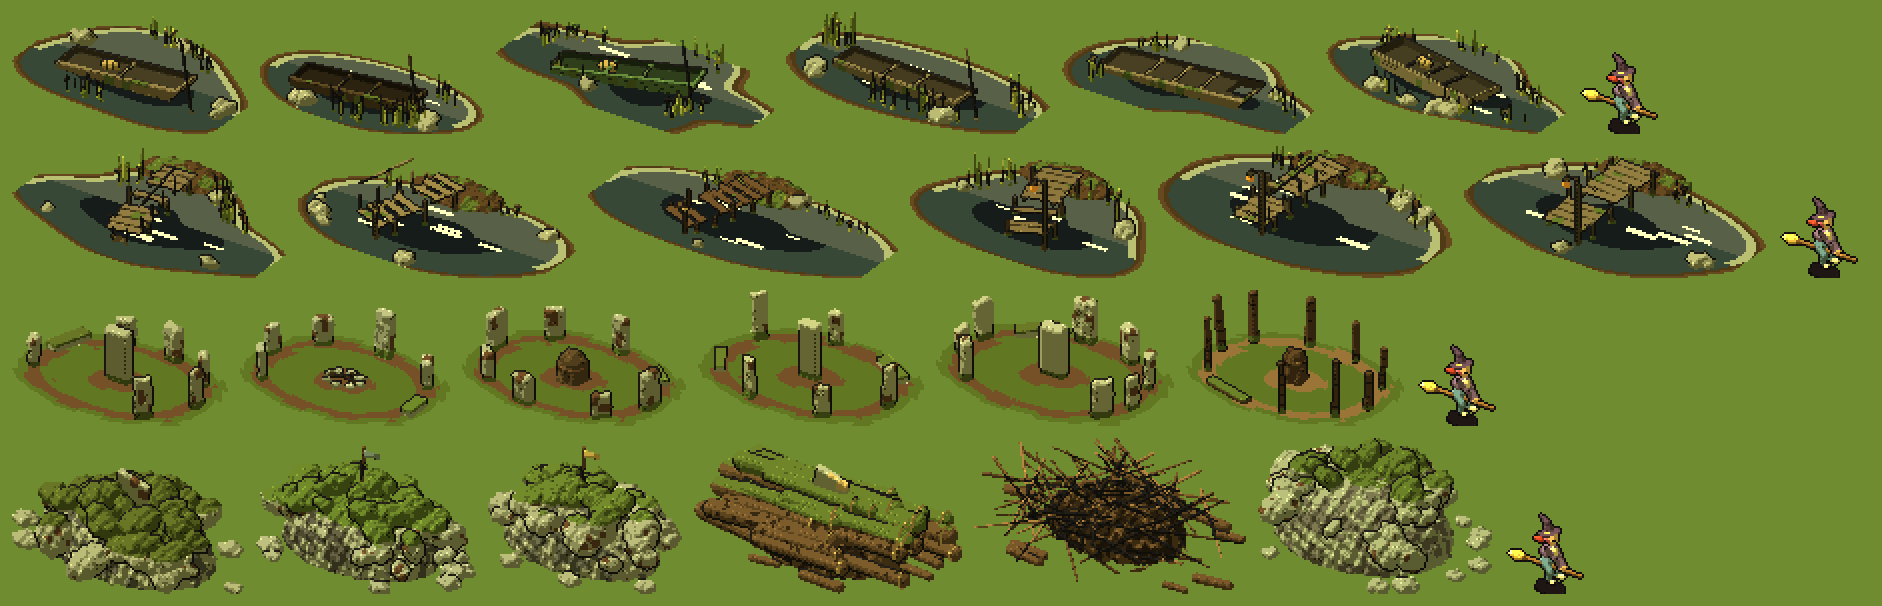
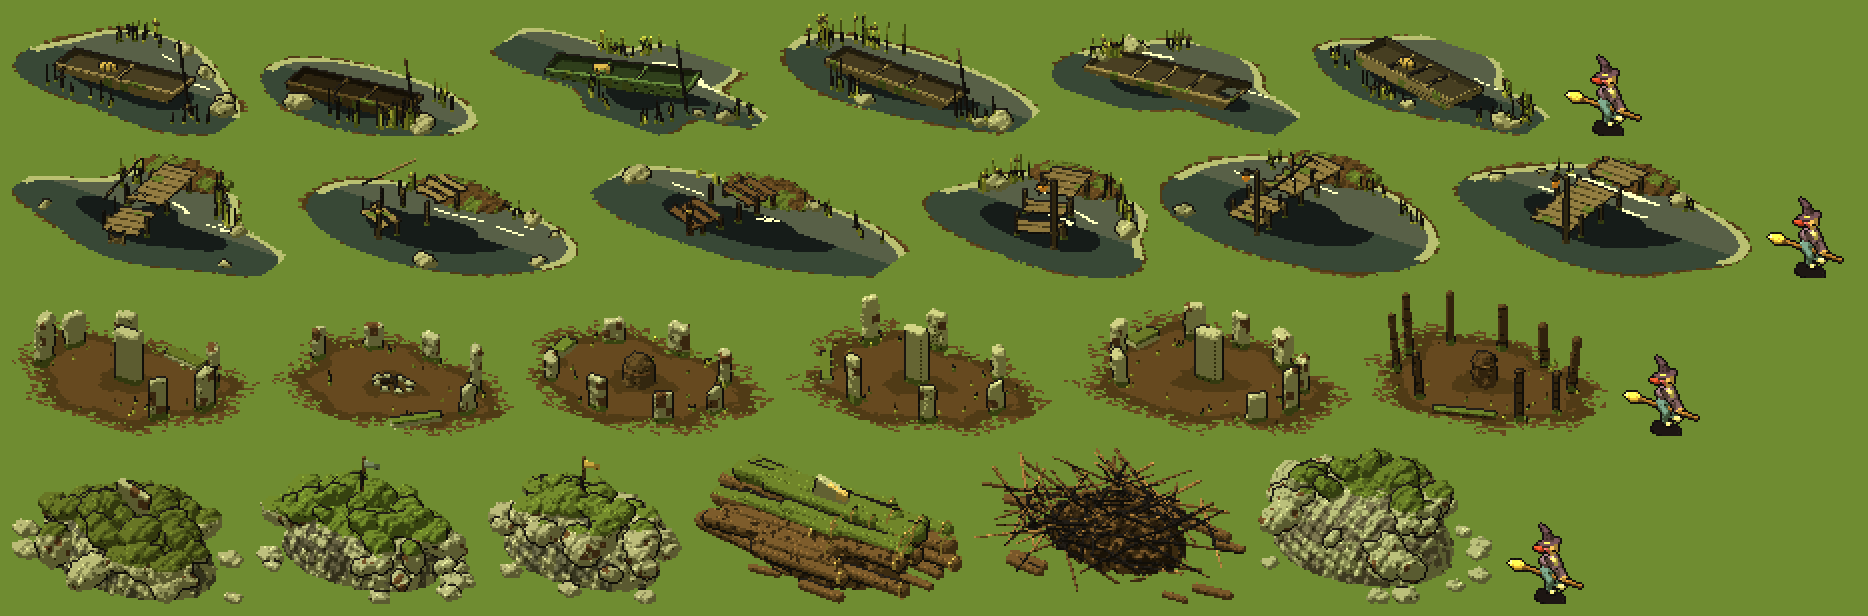
Set pieces: ground that melts into the floor (art director on #204)
The pools and the rings' ground were clean ellipses that read as rugs. Pools: the rim's width bites in and out round the shore, the pale outer band only on muddy stretches, the outermost rim pixels dropped in small clusters (as the props' pools), wobblier shores; their highlights are 2 to 6 strokes of their own lengths on the far water where the sky's reflection is. Rings: the lawn in the floor's own colour with a trodden path and bare middle in its darker tone, an uneven edge dithering out into the floor, tufts over it. Re-cropped after the fleck clean so none floats.

Claude-Session: https://claude.ai/code/session_01VVaLYY2sU2dqSozCTw7Z4G

Changed region(s): [[0.0, 0.0297, 0.9936, 0.7129], [0.0, 0.7129, 0.8694, 0.9802]]

diff --git a/tools/art-lab/dist/witch-art-lab.html b/tools/art-lab/dist/witch-art-lab.html
@@ -3311,13 +3311,13 @@ const SET_PROP_GENOMES = {
   punt: {
     length: [4.2, 6], beam: [1.1, 1.5], depth: [.35, .55], yaw: [-.45, .45], sink: [.15, .5], // m; its heading in the picture (radians); how far its stern is sunk (a share of its depth)
     state: [["whole", 2], ["broken", 1], ["swamped", 2]], thwarts: [1, 3], pole: [0, 1], cargo: [["none", 3], ["trap", 2], ["nets", 1]], // a broken stern; swamped: water inside; a pole stuck in the mud (a chance); an eel trap or nets in it
-    radius: [3.1, 3.8], aspect: [.5, .7], waves: [2, 4], wobble: [.06, .16], rim: [.2, .4], reeds: [3, 6], reedsPer: [5, 9], reedHeight: [.6, 1.2], stones: [1, 4], // its pool
+    radius: [3.1, 3.8], aspect: [.5, .7], waves: [2, 4], wobble: [.08, .2], rim: [.2, .4], reeds: [3, 6], reedsPer: [5, 9], reedHeight: [.6, 1.2], stones: [1, 4], // its pool
     colour: { wood: [[.08, .18, .45, 2], [.07, .35, .24, 1], [.36, .3, .38, 1]], spread: .05 }, // weathered grey, tarred, or old green paint
   },
   jetty: {
     length: [5.5, 8], width: [1.1, 1.5], deck: [.35, .6], sag: [0, .18], kink: [-.35, .35], heading: [-.5, .5], // m; the deck's height over the water and how much its far end droops; a bend halfway; its heading
     missing: [0, 3], posts: [3, 5], end: [["post", 2], ["ladder", 1], ["lantern", 2], ["boat", 1]], rail: [["none", 2], ["one", 1]],
-    radius: [3.4, 4.3], aspect: [.5, .65], waves: [2, 4], wobble: [.05, .14], rim: [.2, .35], reeds: [2, 5], reedsPer: [4, 8], reedHeight: [.5, 1.1], stones: [2, 5],
+    radius: [3.4, 4.3], aspect: [.5, .65], waves: [2, 4], wobble: [.07, .18], rim: [.2, .35], reeds: [2, 5], reedsPer: [4, 8], reedHeight: [.5, 1.1], stones: [2, 5],
     colour: { wood: [[.08, .22, .42, 2], [.07, .4, .3, 1]], spread: .05 },
   },
   ring: {
@@ -3357,13 +3357,16 @@ function gsPool(m, v, R, A, { reedsAt } = {}) {
   const r = v.r, rimW = v.rim * GS_U / R;
   const waves = [...Array(v.waves).keys()].map(k => [k + 2, (r() - .5) * 2 * v.wobble, r() * Math.PI * 2]);
   const shore = a => 1 + waves.reduce((s, [k, amp, ph]) => s + amp * Math.cos(k * a + ph), 0) - v.wobble * .4;
-  const glints = [...Array(4 + Math.floor(r() * 3)).keys()].map(() => [(r() - .5) * 1.2, (r() - .5) * .9, .04 + r() * .05]);
+  const ph = [...Array(4)].map(() => r() * Math.PI * 2);
+  const bite = a => .3 + .9 * (.5 + .3 * Math.sin(3 * a + ph[0]) + .2 * Math.sin(7 * a + ph[1])); // the rim's width round the shore: bites in and out (the art director on #204: no clean ellipse)
+  const muddy = a => Math.sin(2 * a + ph[2]) + .4 * Math.sin(5 * a + ph[3]) > .2; // the pale outer band only on the muddy stretches, not the whole loop
+  const glints = [...Array(2 + Math.floor(r() * 5)).keys()].map(() => [(r() - .5) * 1.1, .2 + r() * .55, .03 + r() * .03, 1 + r() * 2.5]); // on the far water, where the sky's reflection is: each its own length
   const W = 1 + v.wobble + rimW;
   m.flat([0, .004, 0], [1, 0, 0], [0, 0, -1], R * W, R * A * W, (s, t) => {
-    const a = Math.atan2(t, s), d = Math.hypot(s, t) / W, e = shore(a) / W;
-    if (d > e + rimW / W) return undefined;
-    if (d > e) return d > e + rimW / W * .5 ? M.BODY : M.BARK2;
-    if (glints.some(([gx, gy, gr]) => Math.abs(s - gx) < gr * 1.4 && Math.abs(t - gy) < gr * .5)) return M.GLINT;
+    const a = Math.atan2(t, s), d = Math.hypot(s, t) / W, e = shore(a) / W, rw = rimW / W * bite(a);
+    if (d > e + rw) return undefined;
+    if (d > e) return d > e + rw * .5 ? (muddy(a) ? M.BODY : undefined) : M.BARK2;
+    if (glints.some(([gx, gy, gr, len]) => Math.abs(s - gx) < gr * len && Math.abs(t - gy * e) < gr * .45)) return M.GLINT;
     if (t > -.1 && d > e - .06) return M.WEB;
     if (t > .12 && d < e * .93 && d > e * .3) return M.ACCENT;
     return d < e * .55 ? M.BODY2 : M.WATER;
@@ -3439,7 +3442,13 @@ function gsJetty(m, v) {
 // ---- ring: small stones, posts or stumps round a trodden ring of grass; a way in, a fallen one or two, something in the middle ----
 function gsRing(m, v) {
   const r = v.r, R = v.radius * GS_U, A = .7, H = v.height * GS_U, Wd = v.width * GS_U / 2;
-  m.flat([0, .003, 0], [1, 0, 0], [0, 0, -1], R * 1.2, R * A * 1.2, (s, t) => { const d = Math.hypot(s, t) + (gsCell([s, 0, t], 4, 4) - .5) * .12; return d < 1 ? (d > .72 && d < .9 || d < .28 ? M.BELLY : M.LEAF3) : undefined; }, { group: 1, bend: .04 }); // a trodden path round inside the ring and its middle worn bare, short grass between
+  const ph = [r() * 6.28, r() * 6.28], edgeAt = a => 1 + .1 * Math.sin(3 * a + ph[0]) + .07 * Math.sin(7 * a + ph[1]);
+  m.flat([0, .003, 0], [1, 0, 0], [0, 0, -1], R * 1.35, R * A * 1.35, (s, t) => { // a trodden path round inside the ring and its middle worn bare, the floor's own grass between, fading out into the floor in a broken, dithered edge (the art director on #204: no rug)
+    const a = Math.atan2(t, s), d = Math.hypot(s, t) / edgeAt(a) + (gsCell([s, 0, t], 5, 4) - .5) * .1;
+    if (d > .78 && gsCell([s, 0, t], 26, 9) < (d - .78) / .32) return undefined;
+    return d > .72 && d < .88 || d < .26 ? M.BARK2 : M.LEAF3;
+  }, { group: 1, bend: .04 });
+  for (let i = 0; i < 26; i++) { const a = r() * 6.28, d = R * (.6 + r() * .55), x = Math.cos(a) * d, z = Math.sin(a) * d * A; m.seg([x, 0, z], [x + (r() - .5) * .05, .06 + r() * .08, z], .022, .006, i % 2 ? M.LEAF : M.LEAF2, { group: 70 + (i % 4) }); } // tufts over its fading edge
   const gapAt = Math.PI * .5 + (r() - .5) * .8, gapW = v.gap > .45 ? Math.PI * 2 / v.count * 1.1 : 0, fallen = new Set([...Array(v.fallen).keys()].map(() => Math.floor(r() * v.count)));
   for (let i = 0; i < v.count; i++) {
     const a = i / v.count * Math.PI * 2 + r() * .15, da = Math.atan2(Math.sin(a - gapAt), Math.cos(a - gapAt));
@@ -3490,7 +3499,7 @@ function gsColours(kind, v, def, st) {
   const wood = gsTone(C.wood ?? [.07, .38, .32], r, k), dark = wood.map(c => Math.round(c * .45)), light = wood.map(c => Math.min(255, Math.round(c * 1.35 + 12)));
   const stone = gsTone(C.stone ?? [.6, .08, .55], r, k), stoneD = C.dark ? gsTone(C.dark, r, k) : stone.map(c => Math.round(c * .55));
   return {
-    [M.LEAF]: hsv2rgb(leaf, .5, .45), [M.LEAF2]: hsv2rgb(leaf - .03, .45, .62), [M.LEAF3]: hsv2rgb(leaf + .02, .5, .34), [M.LINE]: [24, 22, 30],
+    [M.LEAF]: hsv2rgb(leaf, .5, .45), [M.LEAF2]: hsv2rgb(leaf - .03, .45, .62), [M.LEAF3]: g && kind === "ring" ? g[M.BODY] : hsv2rgb(leaf + .02, .5, .34), [M.LINE]: [24, 22, 30],
     [M.WOOD]: wood, [M.TRUNK]: kind === "punt" || kind === "jetty" ? dark.map(c => Math.round(c * 1.5)) : wood, [M.BARKD]: dark, [M.BARKL]: light,
     [M.STONE]: stone, [M.STONED]: stoneD, [M.MOSS]: C.moss ? gsTone(C.moss, r, k) : g ? g[M.MOSS] : hsv2rgb(.25, .45, .38),
     [M.BELLY]: kind === "ring" && v.member !== "stone" ? light : kind === "heap" && v.of === "logs" ? hsv2rgb(.1, .3, .7) : g ? g[M.BELLY] : hsv2rgb(.2, .1, .72), // trodden earth, lichen, or a sawn face
@@ -3515,8 +3524,15 @@ function genSetPiece(kind, o = {}, def = null, st = {}, size = 1, ppm = 16) {
   m.clipY = 0; // a sunk punt's keel, a buried stone: cut away under the ground
   GS_BUILD[kind](m, v);
   m.ell([0, .004, 0], [.01, .004, .01], M.STONE, { group: 0, extra: true });
-  const rr = render(m, { scale: witchPixelsPerUnit(st) * size }), { sp, x0, y0 } = gsCrop(rr.sp);
-  cleanFlecks(sp);
+  const rr = render(m, { scale: witchPixelsPerUnit(st) * size });
+  let { sp, x0, y0 } = gsCrop(rr.sp);
+  if (kind === "punt" || kind === "jetty") { // the shore breaks into the floor: its outermost rim pixels dropped in 2 x 1 clusters by hash (as the props' pools, #142)
+    const rim = new Set([M.BODY, M.BARK2]), at = (x, y) => x < 0 || y < 0 || x >= sp.w || y >= sp.h ? 0 : sp.m[y * sp.w + x], drop = [];
+    for (let y = 0; y < sp.h; y++) for (let x = 0; x < sp.w; x++) { if (!rim.has(at(x, y)) || (at(x - 1, y) && at(x + 1, y) && at(x, y - 1) && at(x, y + 1))) continue; if (hash2(x >> 1, y, v.seed + 77) < .5) drop.push(y * sp.w + x, y * sp.w + (x ^ 1)); }
+    for (const i of drop) if (rim.has(sp.m[i])) sp.m[i] = 0;
+    const c = gsCrop(sp); sp = c.sp; x0 += c.x0; y0 += c.y0;
+  }
+  cleanFlecks(sp); { const c = gsCrop(sp); sp = c.sp; x0 += c.x0; y0 += c.y0; } // (a lone pixel cleaned off its bottom row would leave it floating)
   if (kind === "punt" || kind === "jetty") { const wn = [.2, 0, .98], l = Math.hypot(...wn); for (let i = 0; i < sp.m.length; i++) if (GS_WATER.has(sp.m[i])) sp.n.set(wn.map(c => c / l), i * 3); } // its water lit as a level surface at a grazing light (as the props' pool), never black
   const [ox, oy] = rr.project([0, 0, 0]), { r, ...variant } = v;
   return { sp, colours: gsColours(kind, v, def, st), origin: { x: +(ox - x0).toFixed(1), y: +(oy - y0).toFixed(1) }, metres: { width: +(sp.w / ppm).toFixed(1), height: +(sp.h / ppm).toFixed(1) }, variant };

diff --git a/art/props/sets.js b/art/props/sets.js
@@ -20,13 +20,13 @@ export const SET_PROP_GENOMES = {
   punt: {
     length: [4.2, 6], beam: [1.1, 1.5], depth: [.35, .55], yaw: [-.45, .45], sink: [.15, .5], // m; its heading in the picture (radians); how far its stern is sunk (a share of its depth)
     state: [["whole", 2], ["broken", 1], ["swamped", 2]], thwarts: [1, 3], pole: [0, 1], cargo: [["none", 3], ["trap", 2], ["nets", 1]], // a broken stern; swamped: water inside; a pole stuck in the mud (a chance); an eel trap or nets in it
-    radius: [3.1, 3.8], aspect: [.5, .7], waves: [2, 4], wobble: [.06, .16], rim: [.2, .4], reeds: [3, 6], reedsPer: [5, 9], reedHeight: [.6, 1.2], stones: [1, 4], // its pool
+    radius: [3.1, 3.8], aspect: [.5, .7], waves: [2, 4], wobble: [.08, .2], rim: [.2, .4], reeds: [3, 6], reedsPer: [5, 9], reedHeight: [.6, 1.2], stones: [1, 4], // its pool
     colour: { wood: [[.08, .18, .45, 2], [.07, .35, .24, 1], [.36, .3, .38, 1]], spread: .05 }, // weathered grey, tarred, or old green paint
   },
   jetty: {
     length: [5.5, 8], width: [1.1, 1.5], deck: [.35, .6], sag: [0, .18], kink: [-.35, .35], heading: [-.5, .5], // m; the deck's height over the water and how much its far end droops; a bend halfway; its heading
     missing: [0, 3], posts: [3, 5], end: [["post", 2], ["ladder", 1], ["lantern", 2], ["boat", 1]], rail: [["none", 2], ["one", 1]],
-    radius: [3.4, 4.3], aspect: [.5, .65], waves: [2, 4], wobble: [.05, .14], rim: [.2, .35], reeds: [2, 5], reedsPer: [4, 8], reedHeight: [.5, 1.1], stones: [2, 5],
+    radius: [3.4, 4.3], aspect: [.5, .65], waves: [2, 4], wobble: [.07, .18], rim: [.2, .35], reeds: [2, 5], reedsPer: [4, 8], reedHeight: [.5, 1.1], stones: [2, 5],
     colour: { wood: [[.08, .22, .42, 2], [.07, .4, .3, 1]], spread: .05 },
   },
   ring: {
@@ -66,13 +66,16 @@ function gsPool(m, v, R, A, { reedsAt } = {}) {
   const r = v.r, rimW = v.rim * GS_U / R;
   const waves = [...Array(v.waves).keys()].map(k => [k + 2, (r() - .5) * 2 * v.wobble, r() * Math.PI * 2]);
   const shore = a => 1 + waves.reduce((s, [k, amp, ph]) => s + amp * Math.cos(k * a + ph), 0) - v.wobble * .4;
-  const glints = [...Array(4 + Math.floor(r() * 3)).keys()].map(() => [(r() - .5) * 1.2, (r() - .5) * .9, .04 + r() * .05]);
+  const ph = [...Array(4)].map(() => r() * Math.PI * 2);
+  const bite = a => .3 + .9 * (.5 + .3 * Math.sin(3 * a + ph[0]) + .2 * Math.sin(7 * a + ph[1])); // the rim's width round the shore: bites in and out (the art director on #204: no clean ellipse)
+  const muddy = a => Math.sin(2 * a + ph[2]) + .4 * Math.sin(5 * a + ph[3]) > .2; // the pale outer band only on the muddy stretches, not the whole loop
+  const glints = [...Array(2 + Math.floor(r() * 5)).keys()].map(() => [(r() - .5) * 1.1, .2 + r() * .55, .03 + r() * .03, 1 + r() * 2.5]); // on the far water, where the sky's reflection is: each its own length
   const W = 1 + v.wobble + rimW;
   m.flat([0, .004, 0], [1, 0, 0], [0, 0, -1], R * W, R * A * W, (s, t) => {
-    const a = Math.atan2(t, s), d = Math.hypot(s, t) / W, e = shore(a) / W;
-    if (d > e + rimW / W) return undefined;
-    if (d > e) return d > e + rimW / W * .5 ? M.BODY : M.BARK2;
-    if (glints.some(([gx, gy, gr]) => Math.abs(s - gx) < gr * 1.4 && Math.abs(t - gy) < gr * .5)) return M.GLINT;
+    const a = Math.atan2(t, s), d = Math.hypot(s, t) / W, e = shore(a) / W, rw = rimW / W * bite(a);
+    if (d > e + rw) return undefined;
+    if (d > e) return d > e + rw * .5 ? (muddy(a) ? M.BODY : undefined) : M.BARK2;
+    if (glints.some(([gx, gy, gr, len]) => Math.abs(s - gx) < gr * len && Math.abs(t - gy * e) < gr * .45)) return M.GLINT;
     if (t > -.1 && d > e - .06) return M.WEB;
     if (t > .12 && d < e * .93 && d > e * .3) return M.ACCENT;
     return d < e * .55 ? M.BODY2 : M.WATER;
@@ -148,7 +151,13 @@ function gsJetty(m, v) {
 // ---- ring: small stones, posts or stumps round a trodden ring of grass; a way in, a fallen one or two, something in the middle ----
 function gsRing(m, v) {
   const r = v.r, R = v.radius * GS_U, A = .7, H = v.height * GS_U, Wd = v.width * GS_U / 2;
-  m.flat([0, .003, 0], [1, 0, 0], [0, 0, -1], R * 1.2, R * A * 1.2, (s, t) => { const d = Math.hypot(s, t) + (gsCell([s, 0, t], 4, 4) - .5) * .12; return d < 1 ? (d > .72 && d < .9 || d < .28 ? M.BELLY : M.LEAF3) : undefined; }, { group: 1, bend: .04 }); // a trodden path round inside the ring and its middle worn bare, short grass between
+  const ph = [r() * 6.28, r() * 6.28], edgeAt = a => 1 + .1 * Math.sin(3 * a + ph[0]) + .07 * Math.sin(7 * a + ph[1]);
+  m.flat([0, .003, 0], [1, 0, 0], [0, 0, -1], R * 1.35, R * A * 1.35, (s, t) => { // a trodden path round inside the ring and its middle worn bare, the floor's own grass between, fading out into the floor in a broken, dithered edge (the art director on #204: no rug)
+    const a = Math.atan2(t, s), d = Math.hypot(s, t) / edgeAt(a) + (gsCell([s, 0, t], 5, 4) - .5) * .1;
+    if (d > .78 && gsCell([s, 0, t], 26, 9) < (d - .78) / .32) return undefined;
+    return d > .72 && d < .88 || d < .26 ? M.BARK2 : M.LEAF3;
+  }, { group: 1, bend: .04 });
+  for (let i = 0; i < 26; i++) { const a = r() * 6.28, d = R * (.6 + r() * .55), x = Math.cos(a) * d, z = Math.sin(a) * d * A; m.seg([x, 0, z], [x + (r() - .5) * .05, .06 + r() * .08, z], .022, .006, i % 2 ? M.LEAF : M.LEAF2, { group: 70 + (i % 4) }); } // tufts over its fading edge
   const gapAt = Math.PI * .5 + (r() - .5) * .8, gapW = v.gap > .45 ? Math.PI * 2 / v.count * 1.1 : 0, fallen = new Set([...Array(v.fallen).keys()].map(() => Math.floor(r() * v.count)));
   for (let i = 0; i < v.count; i++) {
     const a = i / v.count * Math.PI * 2 + r() * .15, da = Math.atan2(Math.sin(a - gapAt), Math.cos(a - gapAt));
@@ -199,7 +208,7 @@ function gsColours(kind, v, def, st) {
   const wood = gsTone(C.wood ?? [.07, .38, .32], r, k), dark = wood.map(c => Math.round(c * .45)), light = wood.map(c => Math.min(255, Math.round(c * 1.35 + 12)));
   const stone = gsTone(C.stone ?? [.6, .08, .55], r, k), stoneD = C.dark ? gsTone(C.dark, r, k) : stone.map(c => Math.round(c * .55));
   return {
-    [M.LEAF]: hsv2rgb(leaf, .5, .45), [M.LEAF2]: hsv2rgb(leaf - .03, .45, .62), [M.LEAF3]: hsv2rgb(leaf + .02, .5, .34), [M.LINE]: [24, 22, 30],
+    [M.LEAF]: hsv2rgb(leaf, .5, .45), [M.LEAF2]: hsv2rgb(leaf - .03, .45, .62), [M.LEAF3]: g && kind === "ring" ? g[M.BODY] : hsv2rgb(leaf + .02, .5, .34), [M.LINE]: [24, 22, 30],
     [M.WOOD]: wood, [M.TRUNK]: kind === "punt" || kind === "jetty" ? dark.map(c => Math.round(c * 1.5)) : wood, [M.BARKD]: dark, [M.BARKL]: light,
     [M.STONE]: stone, [M.STONED]: stoneD, [M.MOSS]: C.moss ? gsTone(C.moss, r, k) : g ? g[M.MOSS] : hsv2rgb(.25, .45, .38),
     [M.BELLY]: kind === "ring" && v.member !== "stone" ? light : kind === "heap" && v.of === "logs" ? hsv2rgb(.1, .3, .7) : g ? g[M.BELLY] : hsv2rgb(.2, .1, .72), // trodden earth, lichen, or a sawn face
@@ -224,8 +233,15 @@ export function genSetPiece(kind, o = {}, def = null, st = {}, size = 1, ppm = 1
   m.clipY = 0; // a sunk punt's keel, a buried stone: cut away under the ground
   GS_BUILD[kind](m, v);
   m.ell([0, .004, 0], [.01, .004, .01], M.STONE, { group: 0, extra: true });
-  const rr = render(m, { scale: witchPixelsPerUnit(st) * size }), { sp, x0, y0 } = gsCrop(rr.sp);
-  cleanFlecks(sp);
+  const rr = render(m, { scale: witchPixelsPerUnit(st) * size });
+  let { sp, x0, y0 } = gsCrop(rr.sp);
+  if (kind === "punt" || kind === "jetty") { // the shore breaks into the floor: its outermost rim pixels dropped in 2 x 1 clusters by hash (as the props' pools, #142)
+    const rim = new Set([M.BODY, M.BARK2]), at = (x, y) => x < 0 || y < 0 || x >= sp.w || y >= sp.h ? 0 : sp.m[y * sp.w + x], drop = [];
+    for (let y = 0; y < sp.h; y++) for (let x = 0; x < sp.w; x++) { if (!rim.has(at(x, y)) || (at(x - 1, y) && at(x + 1, y) && at(x, y - 1) && at(x, y + 1))) continue; if (hash2(x >> 1, y, v.seed + 77) < .5) drop.push(y * sp.w + x, y * sp.w + (x ^ 1)); }
+    for (const i of drop) if (rim.has(sp.m[i])) sp.m[i] = 0;
+    const c = gsCrop(sp); sp = c.sp; x0 += c.x0; y0 += c.y0;
+  }
+  cleanFlecks(sp); { const c = gsCrop(sp); sp = c.sp; x0 += c.x0; y0 += c.y0; } // (a lone pixel cleaned off its bottom row would leave it floating)
   if (kind === "punt" || kind === "jetty") { const wn = [.2, 0, .98], l = Math.hypot(...wn); for (let i = 0; i < sp.m.length; i++) if (GS_WATER.has(sp.m[i])) sp.n.set(wn.map(c => c / l), i * 3); } // its water lit as a level surface at a grazing light (as the props' pool), never black
   const [ox, oy] = rr.project([0, 0, 0]), { r, ...variant } = v;
   return { sp, colours: gsColours(kind, v, def, st), origin: { x: +(ox - x0).toFixed(1), y: +(oy - y0).toFixed(1) }, metres: { width: +(sp.w / ppm).toFixed(1), height: +(sp.h / ppm).toFixed(1) }, variant };
